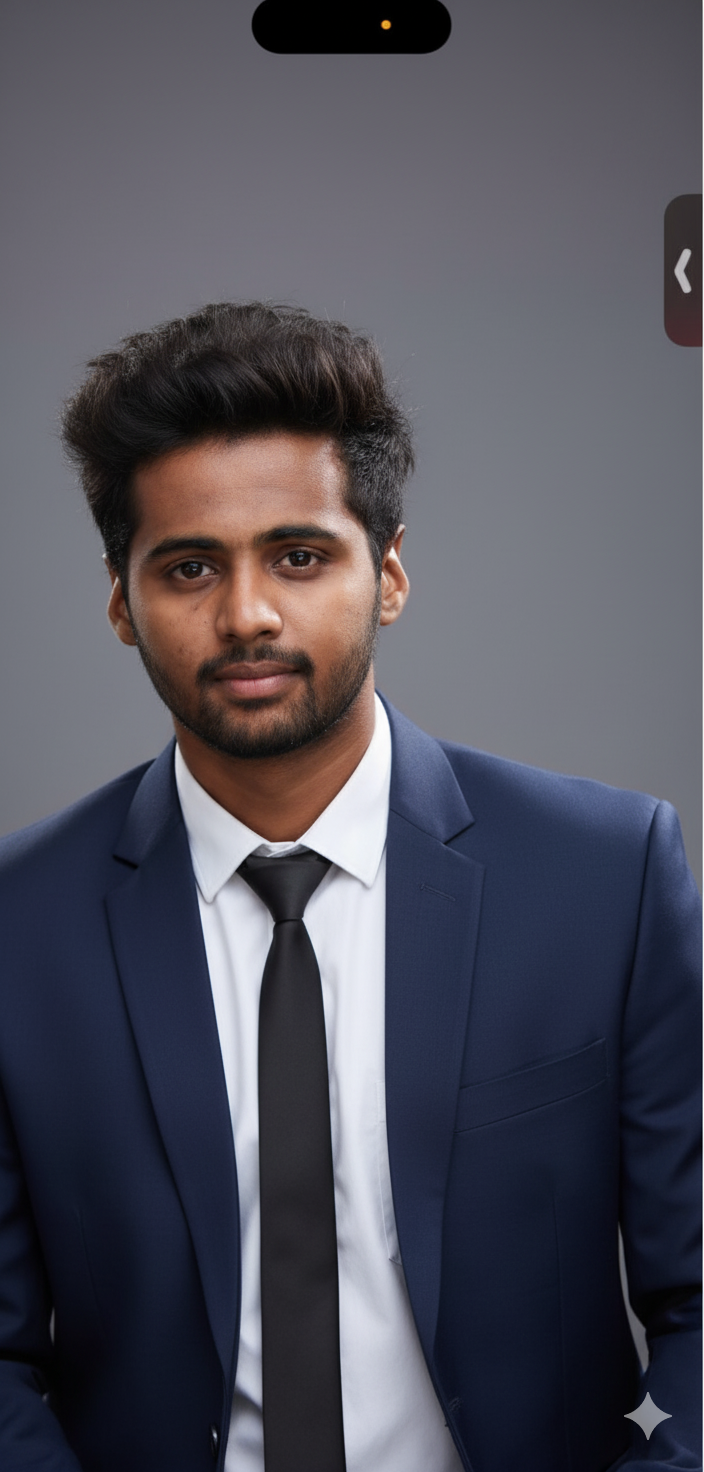
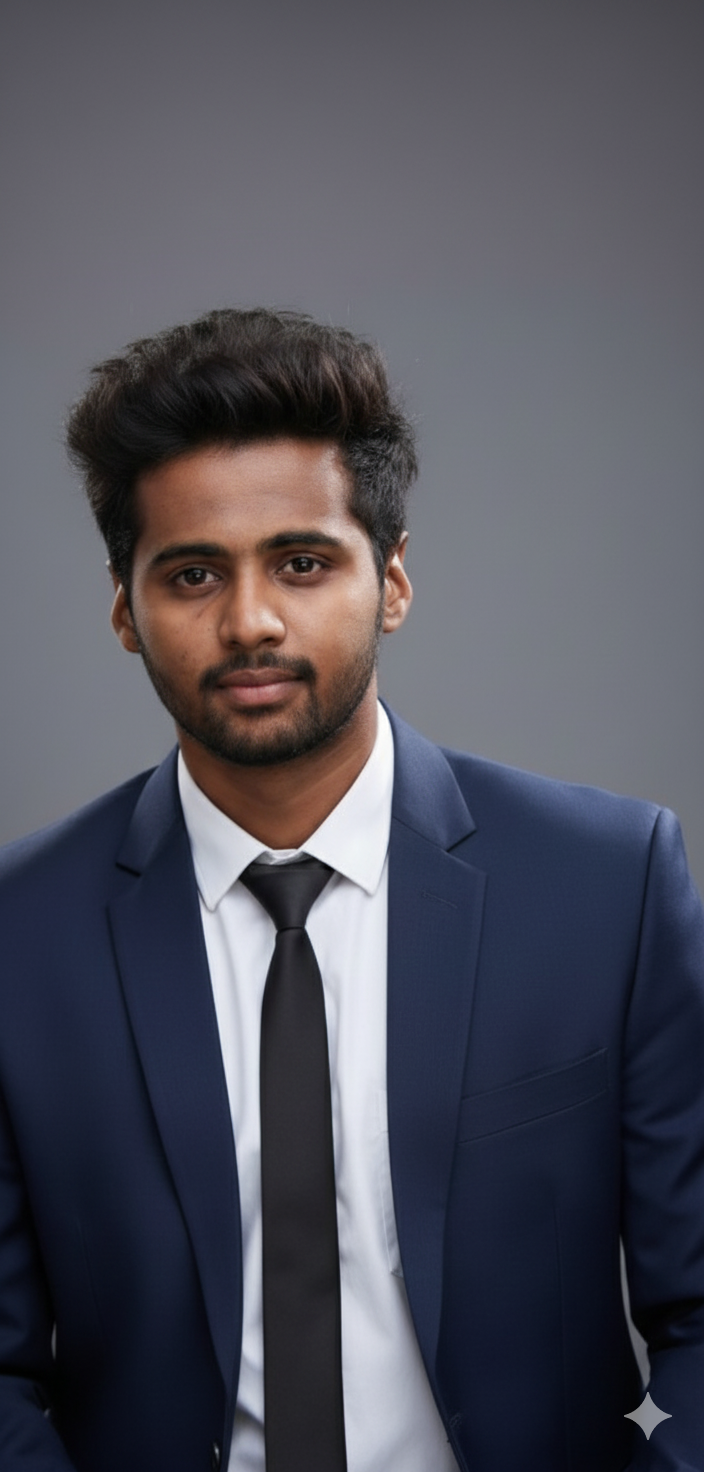
fixed profile image

diff --git a/style.css b/style.css
@@ -52,29 +52,34 @@ body {
   line-height: 1.6;
 }
 
-/* Profile Picture in Hero */
+/* Profile Picture Container */
 .profile-pic-container {
-  width: 150px;
-  height: 150px;
+  width: 150px;                  /* Adjust size as needed */
+  height: 150px;                 /* Must match width for a perfect circle */
   margin: 0 auto 2rem;
   display: flex;
   align-items: center;
   justify-content: center;
+  border-radius: 50%;            /* Circular container */
+  overflow: hidden;              /* Crops anything outside the circle */
+  box-shadow: 0 4px 12px rgba(0, 0, 0, 0.15); /* Optional subtle shadow */
+  background-color: #fff;        /* Fallback background */
 }
 
+/* Profile Picture Image */
 .profile-pic {
   width: 100%;
   height: 100%;
-  object-fit: contain; /* Changed from 'cover' to 'contain' */
-  object-position: center; /* 'contain' will center it by default, but explicitly setting 'center' is good practice */
-  border-radius: 50%; /* circular image */
-  border: 4px solid white;
-  box-shadow: var(--shadow);
-  /*
-    Optional: If you still have extra space with 'contain' due to the image's aspect ratio
-    and you want to fill that space, you could add a background color to the .profile-pic.
-    However, this might make it look less like a pure circular photo.
-    background-color: #f0f0f0; /* Example background color for the letterboxed areas */
+  object-fit: cover;             /* Ensures the image completely fills the circle */
+  object-position: center;       /* Centers the important part (your face) */
+  border-radius: 50%;            /* Ensures the image edges are circular */
+  display: block;                /* Removes unwanted gaps under the image */
+  transition: transform 0.3s ease; /* Optional smooth hover effect */
+}
+
+/* Optional Hover Zoom Effect */
+.profile-pic-container:hover .profile-pic {
+  transform: scale(1.05);
 }
 
 /* Main Content */

diff --git a/index.html b/index.html
@@ -342,7 +342,14 @@
         duration: 800,
         easing: 'ease-in-out',
         once: true,
-        offset: 100
+        offset: 100,
+        delay: 0,
+        anchorPlacement: 'top-bottom'
+      });
+
+      // Refresh AOS after page load to ensure proper initialization
+      window.addEventListener('load', function() {
+        AOS.refresh();
       });
 
       // Smooth scrolling for any anchor links
